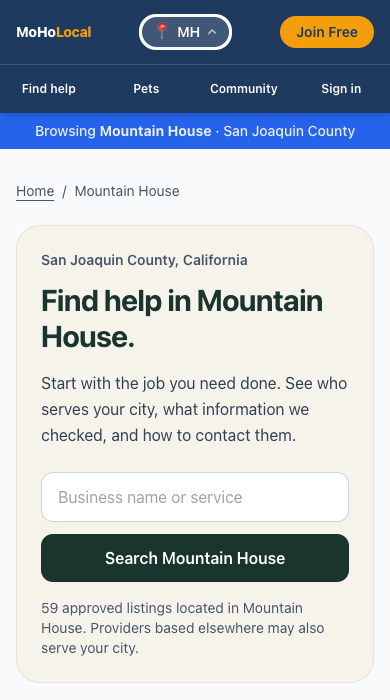
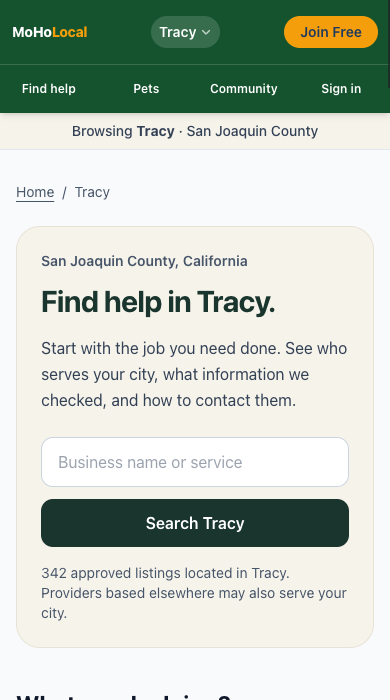
Close native delivery milestone and record live UX and data acceptance

diff --git a/docs/ROADMAP.md b/docs/ROADMAP.md
@@ -19,11 +19,11 @@ Founder direction: retain Next.js, Cloudflare and Supabase; relaunch Mountain Ho
 | FLOW-03 | P1 · Moderation | Unified pending/needs-review handling; approval distinct from information checks; affected-row confirmation; audit trail and accurate errors | Implemented and deployed |
 | DATA-01 | P1 · Editorial | Audit 72 focus-city Home Services candidates (56 initially public); inspect seed provenance/duplicates; check public contacts, exact services, service areas and sources | 72 candidates triaged: 25 held (23 provenance/identity issues + 2 duplicates), 8 existing records corrected from official sites, 39 still require independent rechecks; only 3 corrected records cover the launch categories; no new seed rows |
 | DATA-02 | P1 · Trust | Hide unsupported stars; dated scoped checks; private contact/evidence separation; image source/rights review; correction and recheck cadence | 168 unsupported focus-city ratings cleared with audit trail; dated website-check scope and owner-claim labels deployed; image-rights and recheck operations remain open |
-| DATA-03 | P1 · Accuracy | Correct aggregate counts, Supabase error handling, city-scoped modules and stale event/community presentation | Homepage counts use exact city queries; false trending removed; results show retry errors; pet board has recent/history views; legacy catalog/SEO surfaces still need review |
-| UX-01 | P2 · Product/design | Mobile prototypes: city/task homepage, results, business detail, submission and claims; test states, contrast, keyboard/touch access | Homepage/results/detail deployed; city pages redesigned with task search, checked service areas, contacts, pet links and honest wider-directory labels; 390px city layout/search verified locally, deployment underway; resident testing remains open |
+| DATA-03 | P1 · Accuracy | Correct aggregate counts, Supabase error handling, city-scoped modules and stale event/community presentation | Homepage counts use exact city queries; false trending removed; results show retry errors; pet board has recent/history views; city/category/discovery error and trust presentation corrected; legacy Best Of/SEO surfaces still need review |
+| UX-01 | P2 · Product/design | Mobile prototypes: city/task homepage, results, business detail, submission and claims; test states, contrast, keyboard/touch access | Homepage/results/detail deployed; city pages redesigned with task search, checked service areas, contacts, pet links and honest wider-directory labels; 320px/390px production checks pass, keyboard skip/Escape work, 44px contact targets and full-width mobile evidence are live; resident testing remains open |
 | UX-02 | P2 · Engineering | Implement exact-service taxonomy and cities-served model, clear contact actions, dated trust labels, scoped search/empty states | Explicit service tags, source-backed service areas, dated trust details, direct contacts and honest empty shortlists deployed; expand checked inventory next |
 | OPS-01 | P2 · Operations | Maintainable admin queues, correction ownership, monthly link checks and proposed 90-day fact rechecks; availability expires | FLOW-03 · Backlog |
-| SEO-01 | P2 · Release | Preserve IDs/URLs or redirect; canonical HTTPS host and bare-domain issue; sitemap/structured data; no private/pending indexing | SEC-04, UX-02 · Backlog |
+| SEO-01 | P2 · Release | Preserve IDs/URLs or redirect; canonical HTTPS host and bare-domain behavior; sitemap/structured data; no private/pending indexing | Bare-domain www redirect confirmed in browser; broader sitemap/structured-data/private indexing and legacy routes remain open |
 | PILOT-01 | P3 · Validation | 30–40 unique checked providers; four launch categories; useful coverage in both cities; 20 residents and 10 providers in pilot | P0/P1 gates · Backlog |
 | METRIC-01 | P3 · Analytics | Measure search success, no results, contacts, replies, corrections, freshness and maintenance cost with minimal personal data | UX-02 · Backlog |
 | GROW-01 | P3 · Distribution | Shareable useful pages; local search; owner/resident research; administrator partnerships subject to group rules and explicit outreach authorization | Pilot outcomes · Backlog |
@@ -33,6 +33,7 @@ Founder direction: retain Next.js, Cloudflare and Supabase; relaunch Mountain Ho
 | SEC-09 | P1 · Contributions | Scope public replies/reviews to published parent records; confirmed account identity and persistent daily budget for direct posts/replies/reviews | Database deployed: parent publication boundaries and confirmed account identity enforced; shared durable 60/day contribution quota; role regression tests pass |
 | SEC-08 | P1 · Legacy intake | Retire anonymous suggestion/report inserts and direct pet publication; route existing URLs to saved, confirmed-account intake; retain lost/found/reunited status through moderation | Database and redirects deployed: suggestion/correction/pet legacy writes closed; existing URLs route to moderated intake; pet status preserved |
 | SEC-07 | P0 · Credentials | Remove legacy embedded service credentials, scan tracked files, rotate exposed legacy credentials and verify ingestion/web after rotation | Complete: five scripts sanitized; modern keys deployed; legacy apikeys disabled and previous HS256 verifier revoked; old-key REST/Auth/Storage requests all return 401; modern server and signed-in requester checks pass |
+| PRIV-01 | P1 · Release policy | Replace verified 404 privacy/terms routes with accurate data-handling and participation information based on actual operations; validate footer destinations | Open: live /privacy and /terms both return the app 404 page; complete before broader public pilot |
 | PET-01 | P1 · Community utility | Reuse existing city filters and lost/found/reunited states; add recent-confirmation/expiry, owner updates, moderated reporting, consented public contact and privacy-safe location; audit imported records before presenting them as current | Recent 30-day/history views, dated status caution, original-report links and moderated lost/found/reunited intake implemented; owner update/confirmation/expiry lifecycle remains open |
 | REV-01 | Later · Business | Free basic pilot; validate paid value; disclose sponsorship and separate payment from verification | Demonstrated useful inquiries · Deferred |
 | EXP-01 | Later · Categories | Validate auto repair, catering, childcare/preschools; expand geography only after maintenance economics work | Pilot outcomes · Deferred |
@@ -886,4 +887,4 @@ Before adding any feature to the roadmap, it must pass all six questions:
 
 *Last updated: March 2026*
 
-November 5 UX follow-up: mobile navigation now has visible 48px touch targets, Escape/focus handling and a skip link; city/category evidence and discovery count errors are corrected. TypeScript and local interactions pass; final navigation deployment is being verified. Design acceptance criteria: `docs/ux/design-standard.md`. No competitor-superiority or resident-validation claim is made.
+November 5 UX follow-up: mobile navigation now has visible 48px touch targets, Escape/focus handling and a skip link; city/category evidence and discovery count errors are corrected. TypeScript, clean native build and live interactions pass; the revised navigation and full-width mobile evidence/contact cards are deployed. Design acceptance criteria: `docs/ux/design-standard.md`. No competitor-superiority or resident-validation claim is made.

diff --git a/docs/BACKLOG.md b/docs/BACKLOG.md
@@ -7,11 +7,12 @@ Completed **SEC-07 — P0 credential retirement:** modern-key deployments are li
 Completed **OPS-02 — delivery:** both Workers passed clean native Git builds from main; temporary setup permission removed and build-token registry access now returns 403. Watch paths exclude documentation-only changes; legacy Pages automatic builds are disabled.
 
 1. **DATA-01 / DATA-02 — verified supply:** finish 39 candidates still requiring rechecks, investigate conflicts, deduplicate brands/service areas, and document sources. Eight existing records now have website checks (three launch-category providers, one moving provider, one window-treatment provider and three hardware stores); 25 records held including two duplicates. Landscaping has no checked launch provider yet.
-2. **UX-01 / UX-02 / DATA-03 — experience:** city-page task search/service evidence/contact redesign and discovery accuracy fixes are locally verified, with deployment next; continue keyboard/resident testing, remaining category/SEO surfaces and empty searches using real inventory.
-3. **PET-01 — useful community loop:** owner-authorized updates, current-status confirmation and expiry, privacy-safe photos/contact, and audit imported report sources. Recent/history UI and moderated intake are implemented.
-4. **SEO-01 — release hygiene:** canonical bare-domain behavior, sitemap/structured-data accuracy, pending/private indexing and legacy route review.
-5. **PILOT-01 / METRIC-01 — validation:** meet the checked-provider coverage gate, observe real searches and contact outcomes, then decide expansion/monetization. No outreach is authorized yet.
+2. **PRIV-01 — release policy:** live privacy and terms links lead to 404 pages; replace them with accurate data-handling and participation information before the broader public pilot.
+3. **UX-01 / UX-02 / DATA-03 — experience:** city/task search, service-area evidence, catalog error handling, mobile navigation and full-width evidence/contact cards are deployed. Live 320px/390px, skip/Escape and 44px contact checks pass. Continue resident usability tests, remaining Best Of/SEO surfaces and empty searches using real inventory.
+4. **PET-01 — useful community loop:** owner-authorized updates, current-status confirmation and expiry, privacy-safe photos/contact, and imported report source audit. Recent/history UI and moderated intake are implemented.
+5. **SEO-01 — release hygiene:** bare-domain www redirect confirmed in browser; sitemap/structured-data accuracy, private indexing and legacy route review remain open.
+6. **PILOT-01 / METRIC-01 — validation:** meet checked-provider coverage, observe real searches/contact outcomes, then decide expansion/monetization. No outreach is authorized yet.
 
 Shared regional experience: Mountain House, Tracy, Lathrop and Manteca. Initial deeper business verification remains Mountain House and Tracy. A Facebook research lead or an old approved flag is not independent verification.
 
-November 5 UX follow-up: mobile navigation now has visible 48px touch targets, Escape/focus handling and a skip link; city/category evidence and discovery count errors are corrected. TypeScript and local interactions pass; final navigation deployment is being verified. Design acceptance criteria: `docs/ux/design-standard.md`. No competitor-superiority or resident-validation claim is made.
+November 5 UX follow-up: mobile navigation now has visible 48px touch targets, Escape/focus handling and a skip link; city/category evidence and discovery count errors are corrected. TypeScript, clean native build and live interactions pass; revised navigation and mobile results are deployed. Design acceptance criteria: `docs/ux/design-standard.md`. No competitor-superiority or resident-validation claim is made.

diff --git a/docs/SPRINTS.md b/docs/SPRINTS.md
@@ -11,7 +11,7 @@ This relaunch supersedes the historical March/April expansion and distribution p
 | Sprint | Scope | Current state |
 |---|---|---|
 | R1 | Security, credentials, submissions and claims | Code/database fixes deployed; 39 automated tests and live Google/submission/rejection acceptance pass. Legacy apikey access is disabled and the previous HS256 verifier revoked; old-key REST/Auth/Storage checks return 401, while modern server and signed-in requester access pass. R1 complete: both clean push-triggered native builds passed and temporary setup permission was removed (configuration registry now returns 403). |
-| R2 | Regional discovery, listing evidence and mobile redesign | First pass deployed for shared Mountain House/Tracy/Lathrop/Manteca discovery. 72 candidates triaged; 25 held including two duplicates; 8 corrected from official websites, 39 still require rechecks. Only 3 corrected records cover launch categories. City-page redesign adds task search, service-area evidence and contacts; 390px search/layout passed locally, deployment underway. Discovery count failure handling and unsupported popularity labels corrected. |
+| R2 | Regional discovery, listing evidence and mobile redesign | First pass deployed for shared Mountain House/Tracy/Lathrop/Manteca discovery. 72 candidates triaged; 25 held including two duplicates; 8 corrected from official websites, 39 still require rechecks. Only 3 corrected records cover launch categories. City-page redesign adds task search, service-area evidence and contacts; 320px/390px layout, search, skip-link focus, Escape dismissal and 44px contact targets verified on production; deployed. Discovery count failure handling and unsupported popularity labels corrected. |
 | R3 | Useful pilot and pet-report lifecycle | Backlog. Build sufficient independently checked choices before outreach; validate resident outcomes. Preserve existing pet filters/reunited states, with moderated reporting and recent/history separation. Owner updates and freshness confirmation remain open. |
 
 ### Relaunch definition of done
@@ -320,4 +320,6 @@ Levi's Stadium games begin June 2026. Pages must be indexed and ranking by May 2
 MoHoLocal Sprints Reference v2
 March 2026
 
-November 5 UX follow-up: mobile navigation now has visible 48px touch targets, Escape/focus handling and a skip link; city/category evidence and discovery count errors are corrected. TypeScript and local interactions pass; final navigation deployment is being verified. Design acceptance criteria: `docs/ux/design-standard.md`. No competitor-superiority or resident-validation claim is made.
+November 5 UX follow-up: mobile navigation now has visible 48px touch targets, Escape/focus handling and a skip link; city/category evidence and discovery count errors are corrected. TypeScript, clean native build and live interactions pass; revised navigation and mobile results are deployed. Design acceptance criteria: `docs/ux/design-standard.md`. No competitor-superiority or resident-validation claim is made.
+
+Release-hygiene finding: live /privacy and /terms show the app 404 page. PRIV-01 is an open gate before the broader public pilot; the bare-domain browser navigation successfully redirects to www.

diff --git a/docs/security/delivery-runbook.md b/docs/security/delivery-runbook.md
@@ -1,0 +1,20 @@
+# MoHoLocal delivery runbook
+
+Updated November 5, 2026. Existing stack: Next.js, Supabase and Cloudflare Workers. Primary site: https://www.moholocal.com.
+
+Both existing Workers connect to `dsovan2004-beep/moho-app`, production branch `main`, root `/`. Cloudflare installs the lockfile dependencies in a clean build environment using Node 22. Preview builds are disabled. The obsolete `moho-app` Pages production and preview automatic builds are disabled.
+
+| Worker | Build | Deploy |
+|---|---|---|
+| moho-web | `npm run typecheck && npm run cf:build` | `npx wrangler deploy` |
+| moho-ingestion | `npx tsc --noEmit -p workers/tsconfig.json` | `npx wrangler deploy --config workers/wrangler.toml` |
+
+Web build variables: Node version, Cloudflare account ID, telemetry opt-out, public Supabase URL and modern publishable key. The ingestion server key is an encrypted runtime secret, never a build variable. Secret values do not belong in source, documentation, issue bodies or build logs.
+
+The dedicated deployment token retains the original four approved permissions: account Workers Scripts Edit and Account Settings Read, plus Zone Read and Workers Routes Edit for moholocal.com. It expires November 5, 2027. Temporary Workers Builds Configuration Edit was removed after connection; its absence was verified with HTTP 403 on the build-token registry and successful subsequent deployments. Build configuration changes use the owner's Cloudflare dashboard; do not broaden the runtime deployment token to make configuration API reads succeed.
+
+Watch paths route application/configuration changes to the web build and worker/configuration changes to ingestion. Documentation-only changes are excluded. GitHub check runs named `Workers Builds: moho-web` and `Workers Builds: moho-ingestion` provide the source commit, result and dashboard build URL. Ingestion's custom-config deployment may appear separately as Wrangler in the Worker version list; correlate the successful build log and deployment time rather than relying on that UI label alone.
+
+Before considering delivery complete, verify the successful commit check, active runtime version, live pages and a representative interaction. For a rollback, choose a previously known-good Worker deployment in Cloudflare, then correct main through the normal source workflow. Do not re-enable the unsupported Pages build or disable database RLS. Listing corrections have private previous/applied values and source evidence; review that audit before any data reversal.
+
+Credential retirement and build evidence: deployment-evidence.json, native-builds-reduced-permissions-2026-11-05.json, runtime-deployments-2026-11-05.json and credential-retirement-complete-2026-11-05.json. Remaining product and supply work is tracked in ../BACKLOG.md, ../ROADMAP.md and ../SPRINTS.md.
